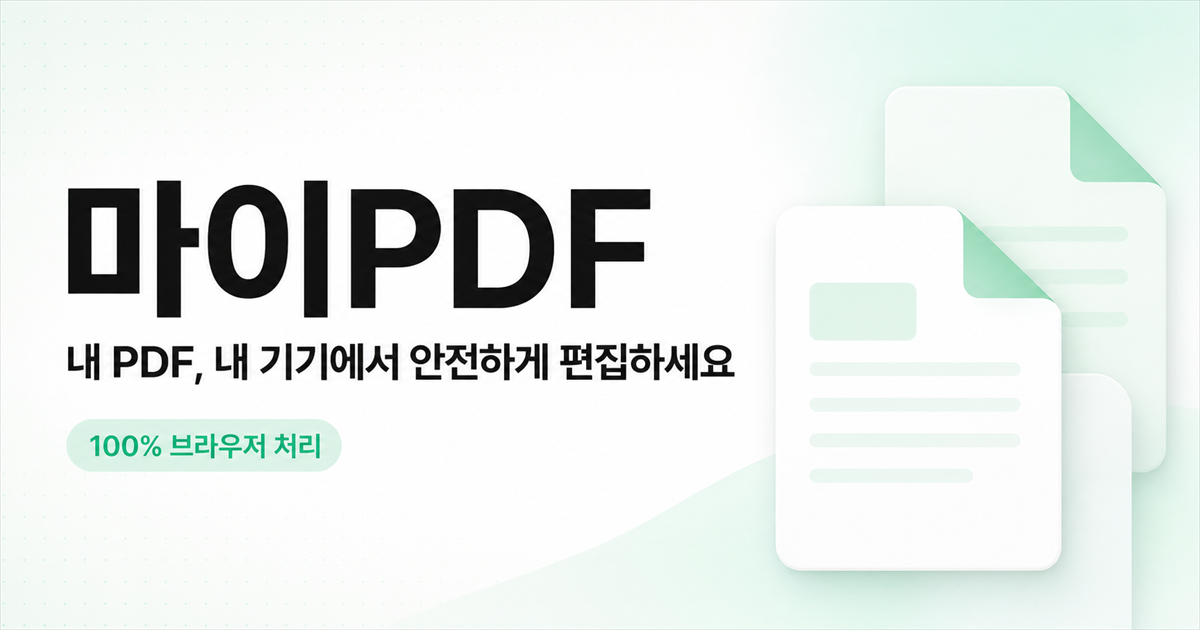
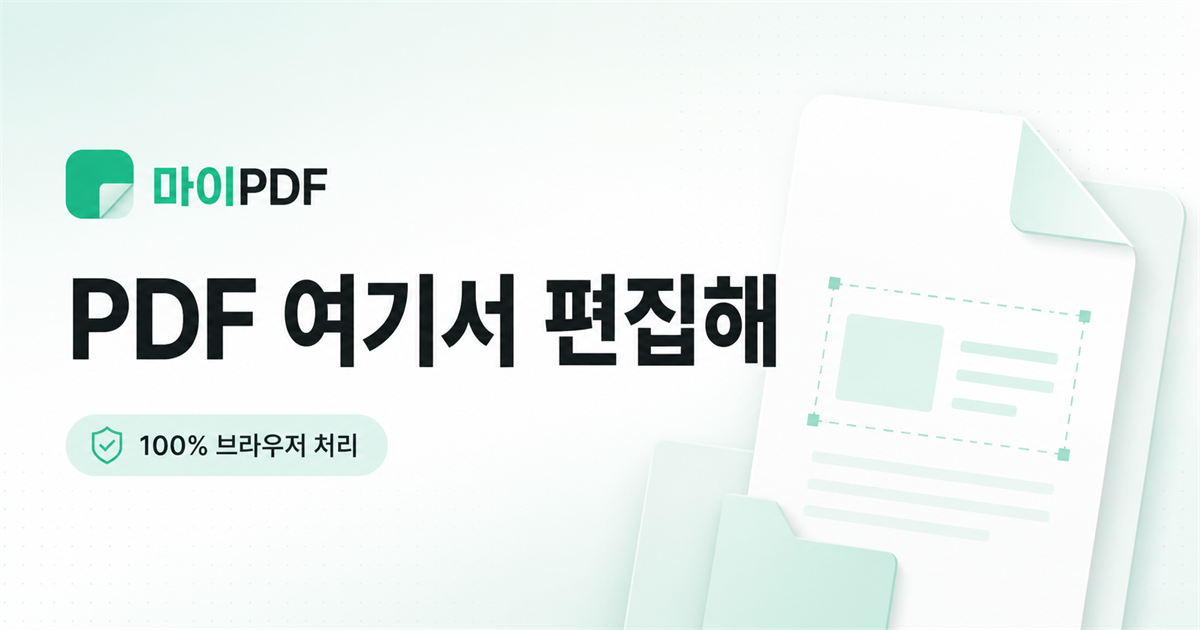
Update MyPDF copy

diff --git a/app/layout.tsx b/app/layout.tsx
@@ -7,21 +7,21 @@ const geistMono = Geist_Mono({ variable: '--font-geist-mono', subsets: ['latin']
 
 export const metadata: Metadata = {
   metadataBase: new URL('https://mypdf-editor.waruruzip.chatgpt.site'),
-  title: '마이PDF — 내 기기에서 안전하게 PDF 편집',
+  title: '마이PDF — PDF 여기서 편집해',
   description: 'PDF 병합, 페이지별 분할, 삭제와 추출을 서버 업로드 없이 브라우저에서 처리하세요.',
   alternates: { canonical: '/' },
   openGraph: {
-    title: '마이PDF — 내 기기에서 안전하게 PDF 편집',
+    title: '마이PDF — PDF 여기서 편집해',
     description: 'PDF 병합, 페이지별 분할, 삭제와 추출을 서버 업로드 없이 브라우저에서 처리하세요.',
     siteName: '마이PDF',
     type: 'website',
     locale: 'ko_KR',
     url: '/',
-    images: [{ url: '/og.png', width: 1200, height: 630, alt: '마이PDF — 내 PDF, 내 기기에서 안전하게 편집하세요' }],
+    images: [{ url: '/og.png', width: 1200, height: 630, alt: '마이PDF — PDF 여기서 편집해' }],
   },
   twitter: {
     card: 'summary_large_image',
-    title: '마이PDF — 내 기기에서 안전하게 PDF 편집',
+    title: '마이PDF — PDF 여기서 편집해',
     description: 'PDF 병합, 페이지별 분할, 삭제와 추출을 서버 업로드 없이 브라우저에서 처리하세요.',
     images: ['/og.png'],
   },

diff --git a/app/page.tsx b/app/page.tsx
@@ -269,13 +269,13 @@ export default function Home() {
           <div className="hero-glow hero-glow-right" aria-hidden="true" />
           <div className="hero-copy">
             <p className="eyebrow"><span /> 100% 브라우저 처리</p>
-            <h1>내 PDF, 내 기기에서<br />안전하게 편집하세요</h1>
+            <h1>PDF 여기서 편집해</h1>
             <p className="hero-description">합치고, 나누고, 필요한 페이지만 골라보세요.<br className="desktop-break" /> 업로드 없이 빠르고 간편하게 처리됩니다.</p>
           </div>
 
           <section className={`upload-card ${isDraggingFiles ? 'is-dragging' : ''}`} aria-labelledby="upload-title">
             <div className="upload-icon" aria-hidden="true">{busy ? <UiIcon name="loading" className="spin" /> : <UiIcon name="upload" />}</div>
-            <h2 id="upload-title">{isDraggingFiles ? '여기에 놓으면 바로 시작해요' : 'PDF 파일을 여기에 놓으세요'}</h2>
+            <h2 id="upload-title">{isDraggingFiles ? '여기에 놓으면 바로 시작해요' : 'PDF 파일 여따 넣어'}</h2>
             <p>{busy ? processing.message : '여러 파일을 한 번에 선택할 수 있어요'}</p>
             {busy ? (
               <div className="inline-progress" aria-label={`진행률 ${processing.progress}%`}><span style={{ width: `${processing.progress}%` }} /></div>
